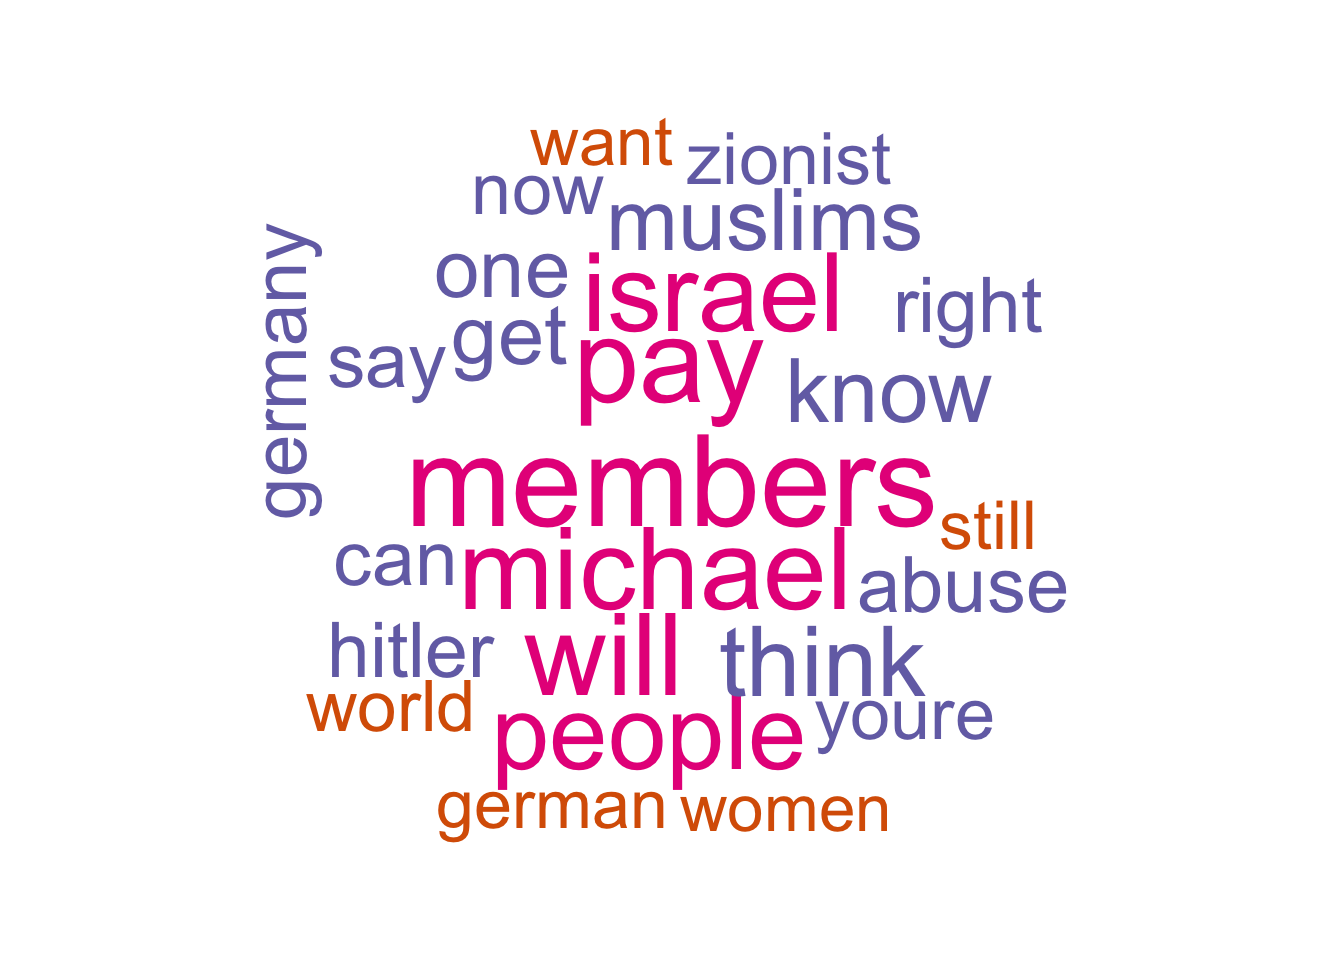
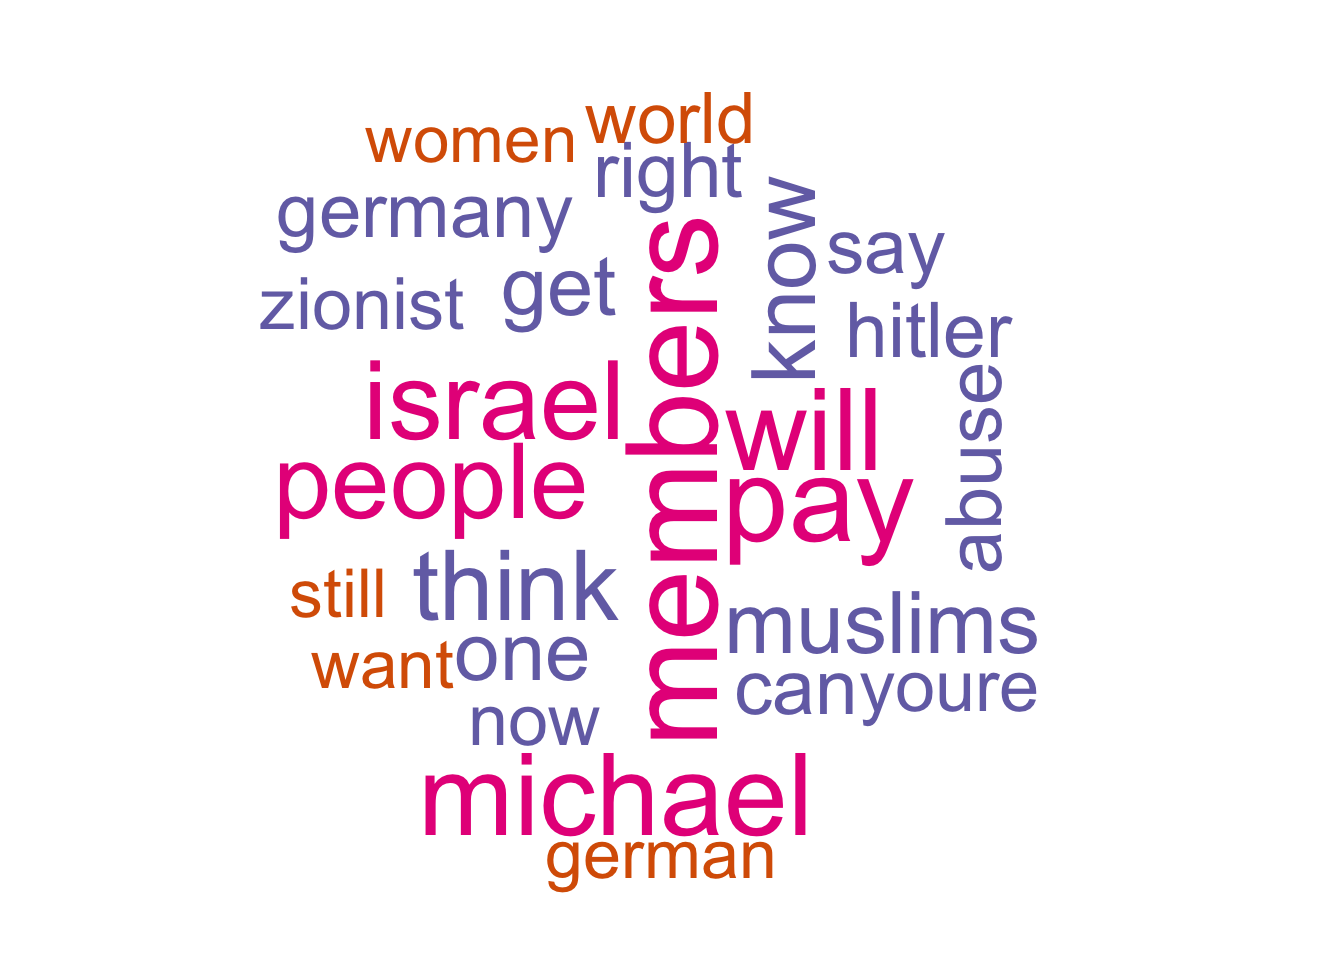
Build site.

Changed region(s): [[0.1875, 0.0938, 0.8125, 0.9375]]

diff --git a/docs/first-analysis.html b/docs/first-analysis.html
@@ -272,7 +272,7 @@ div.tocify {
         <span class="icon-bar"></span>
         <span class="icon-bar"></span>
       </button>
-      <a class="navbar-brand" href="index.html">workflowr</a>
+      <a class="navbar-brand" href="index.html">Sefa Ozalp</a>
     </div>
     <div id="navbar" class="navbar-collapse collapse">
       <ul class="nav navbar-nav">
@@ -319,7 +319,7 @@ shared across the workflowr files. -->
 <p><strong>Last updated:</strong> 2017-11-03</p>
 <!-- Insert the code version (Git commit SHA1) if Git repository exists and R
  package git2r is installed -->
-<p><strong>Code version:</strong> 7fb3b1e</p>
+<p><strong>Code version:</strong> e09f943</p>
 <!-- Add your analysis here -->
 <pre class="r"><code>library(tidyverse)</code></pre>
 <pre><code>Loading tidyverse: ggplot2
@@ -430,8 +430,8 @@ colnames(tdm_both) &lt;-  c(&quot;Antagonistic&quot;, &quot;Not Antagonistic&quo
 <p>And here is a comparison cloud. Note that words from antagonistic content are in <strong>red</strong> and words from non-antagonistic content are in <strong>black</strong>.</p>
 <pre class="r"><code>comparison.cloud(tdm_both, random.order=FALSE,
                  colors = c(&quot;red&quot;, &quot;black&quot;),
-                 scale = c(2.8, 0.6),
-                 title.size=1.5, max.words=180, rot.per = 0.3)</code></pre>
+                 scale = c(2.8, 0.5),
+                 title.size=1.5, max.words=150, rot.per = 0.3)</code></pre>
 <p><img src="figure/first-analysis.Rmd/unnamed-chunk-3-1.png" width="672" style="display: block; margin: auto;" /></p>
 <p>Lastly, the most common 25 words between groups.</p>
 <pre class="r"><code>commonality.cloud(tdm_both, random.order=FALSE, 

diff --git a/docs/results.html b/docs/results.html
@@ -270,7 +270,7 @@ div.tocify {
         <span class="icon-bar"></span>
         <span class="icon-bar"></span>
       </button>
-      <a class="navbar-brand" href="index.html">workflowr</a>
+      <a class="navbar-brand" href="index.html">Sefa Ozalp</a>
     </div>
     <div id="navbar" class="navbar-collapse collapse">
       <ul class="nav navbar-nav">
@@ -309,7 +309,7 @@ div.tocify {
 
 
 <ul>
-<li><a href="first-analysis.html">Plotting Geolocations</a></li>
+<li><a href="first-analysis.html">ComparisonCloud</a></li>
 </ul>
 
 <hr>

diff --git a/docs/about.html b/docs/about.html
@@ -172,7 +172,7 @@ $(document).ready(function () {
         <span class="icon-bar"></span>
         <span class="icon-bar"></span>
       </button>
-      <a class="navbar-brand" href="index.html">workflowr</a>
+      <a class="navbar-brand" href="index.html">Sefa Ozalp</a>
     </div>
     <div id="navbar" class="navbar-collapse collapse">
       <ul class="nav navbar-nav">

diff --git a/docs/index.html b/docs/index.html
@@ -172,7 +172,7 @@ $(document).ready(function () {
         <span class="icon-bar"></span>
         <span class="icon-bar"></span>
       </button>
-      <a class="navbar-brand" href="index.html">workflowr</a>
+      <a class="navbar-brand" href="index.html">Sefa Ozalp</a>
     </div>
     <div id="navbar" class="navbar-collapse collapse">
       <ul class="nav navbar-nav">
